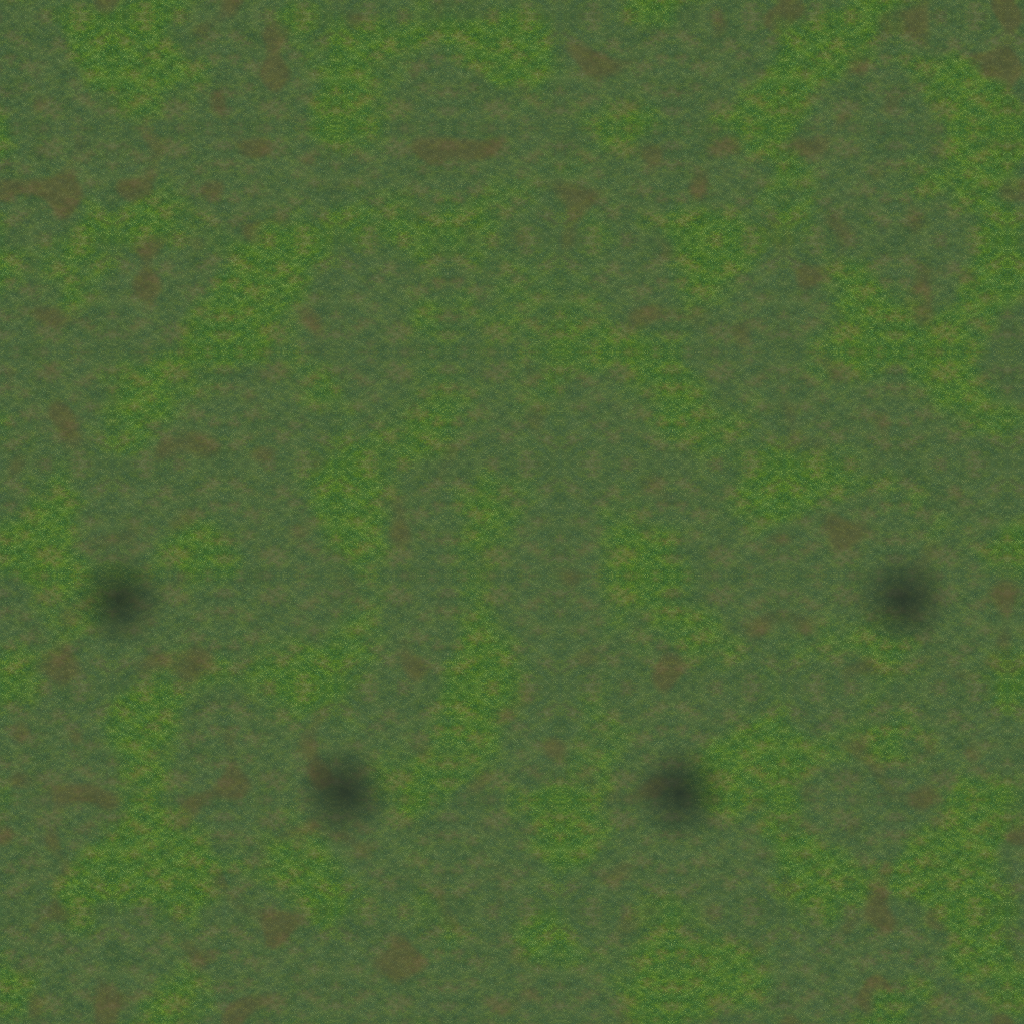
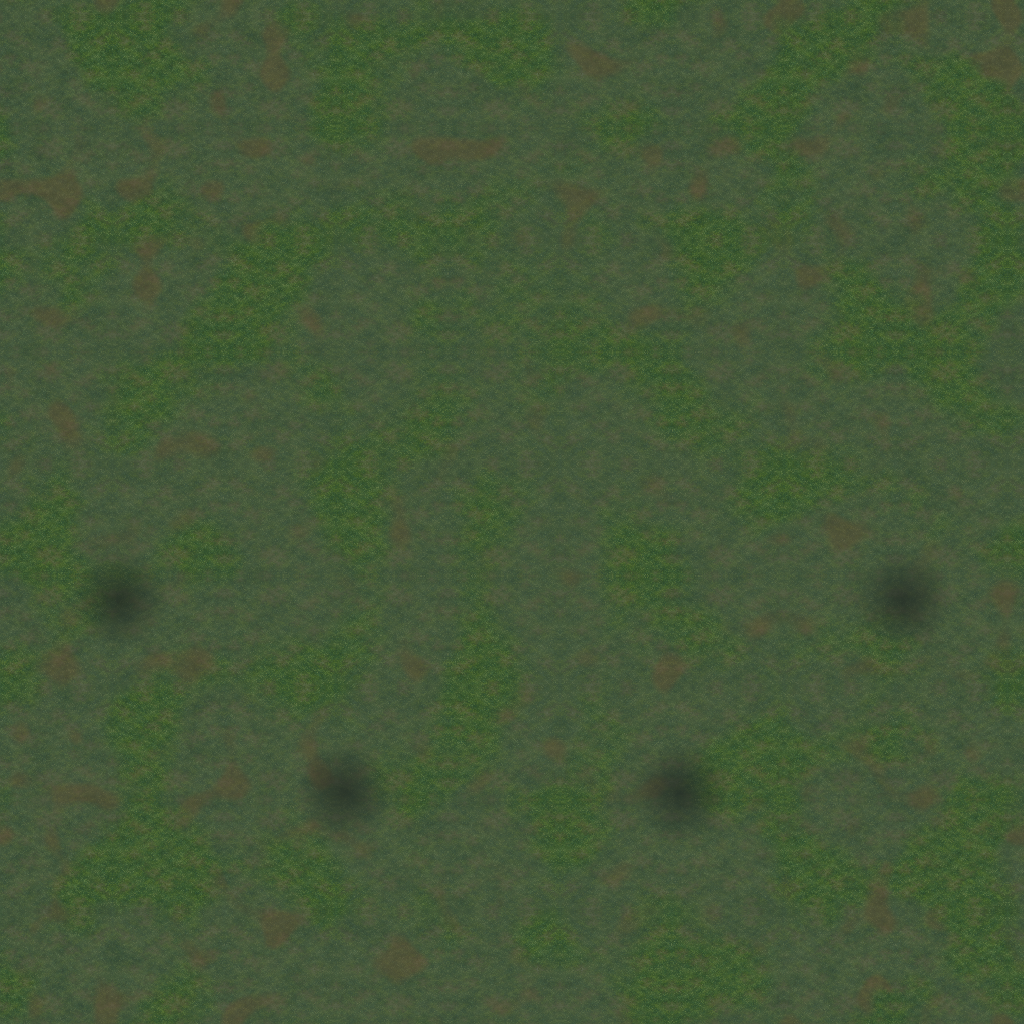
Compose woodland banks and soften Ironfold greens

diff --git a/Assets/Game/Presentation/LivingWorld.cs b/Assets/Game/Presentation/LivingWorld.cs
@@ -87,15 +87,38 @@ namespace FrostMaze
                 if(p.x>width*.5f||!FitsMap(config,p.x,p.z,p.w)||!ClearsFlight(config,p.x,p.z,p.w))continue;
                 Tree(new Vector3(p.x,y,p.z),p.w,p.y,Mathf.RoundToInt(p.x*13+p.z*7),false);Site(p.x,y,p.z,p.w);
             }
-            for(float z=1.2f;z<config.Height-1;z+=1.35f)for(float x=1.2f;x<width*.5f-1;x+=1.35f){
-                float n=Noise(x,z),px=x+(n-.5f)*.65f,pz=z+(Noise(z,x)-.5f)*.6f;
-                float r=.36f+n*.17f;
+            if(!ice)BuildIronfoldBanks(scenery,y);
+            // Broad, separated beds: a rock shoulder anchors each pocket of understory.
+            // The complete group is reserved before generating leaves, including their wind envelope.
+            for(float z=1.5f;z<config.Height-1;z+=2.2f)for(float x=1.5f;x<width*.5f-1;x+=2.2f){
+                float n=Noise(x,z),px=x+(n-.5f)*1.1f,pz=z+(Noise(z,x)-.5f)*1.1f;
+                if(Mathf.PerlinNoise(px*.12f+5,pz*.12f+17)<.46f)continue;
+                float r=.86f+n*.35f;
+                if(!FitsMap(config,px,pz,r)||!Clear(px,pz,r)||!scenery.PlantSpaceFree(px,pz,r))r=.60f+n*.08f;
                 if(!FitsMap(config,px,pz,r)||!Clear(px,pz,r)||!scenery.PlantSpaceFree(px,pz,r))continue;
-                bool edge=!FitsMap(config,px,pz,2.2f);
-                if(Mathf.PerlinNoise(px*.22f+5,pz*.22f+17)<(edge?.32f:.53f))continue;
-                if(n>.65f&&FitsMap(config,px,pz,1.02f)&&scenery.PlantSpaceFree(px,pz,1.14f)&&Clear(px,pz,1.14f)&&ClearsFlight(config,px,pz,1.02f)){
-                    Tree(new Vector3(px,y,pz),.98f,ice?3.1f:2.9f,(int)(px*13+pz*3),false);Site(px,y,pz,.98f);
-                } else {Garden(new Vector3(px,y,pz),r,(int)(px*11+pz*17));Site(px,y,pz,r);}
+                int seed=Mathf.RoundToInt(px*13+pz*17);
+                if(n>.62f&&FitsMap(config,px,pz,1.35f)&&scenery.PlantSpaceFree(px,pz,1.35f)&&Clear(px,pz,1.35f)&&ClearsFlight(config,px,pz,1.35f)){
+                    Tree(new Vector3(px,y,pz),1.30f,ice?3.7f:3.4f,seed,false);Site(px,y,pz,1.30f);
+                } else {Thicket(new Vector3(px,y,pz),r,seed);Site(px,y,pz,r);}
+            }
+        }
+        void BuildIronfoldBanks(MapScenery scenery,float y)
+        {
+            // Shelter the lower bends and frame the approach. Search only near each authored
+            // target so a future mask edit cannot move a tree to an unrelated part of the map.
+            var targets=new[]{new Vector4(16,12,1.22f,3.9f),new Vector4(22,17,1.20f,3.7f),
+                new Vector4(13,3.8f,.66f,2.45f),new Vector4(26,3.8f,.66f,2.45f)};
+            foreach(var target in targets){
+                Vector2 best=default;float score=float.MaxValue;
+                for(float z=target.y-1.5f;z<=target.y+1.5f;z+=.25f)
+                for(float x=target.x-1.5f;x<=target.x+1.5f;x+=.25f){
+                    if(!FitsMap(config,x,z,target.z)||!Clear(x,z,target.z)||!scenery.PlantSpaceFree(x,z,target.z)||!ClearsFlight(config,x,z,target.z))continue;
+                    float distance=(new Vector2(x,z)-new Vector2(target.x,target.y)).sqrMagnitude;
+                    if(distance<score){score=distance;best=new Vector2(x,z);}
+                }
+                if(score==float.MaxValue)continue;
+                Tree(new Vector3(best.x,y,best.y),target.z,target.w,Mathf.RoundToInt(best.x*17+best.y*7),false);
+                Site(best.x,y,best.y,target.z);
             }
         }
         void BuildOutside(WorldBackdrop backdrop)
@@ -112,14 +135,31 @@ namespace FrostMaze
                 if(!backdrop.PlantFits(x,z,r+WindEnvelope)||!Clear(x,z,r))continue;
                 Tree(new Vector3(x,backdrop.SurfaceY(x,z),z),r,ice?5.5f:4.9f,(int)(x*19),!ice);Site(x,0,z,r);
             }
-            // Low gardens follow the paths and foundations, rather than a regular prop grid.
-            for(float z=-35;z<-1;z+=1.25f)for(float x=2;x<width*.5f-1;x+=1.25f){
-                float n=Noise(x,z),px=x+(n-.5f)*.7f,pz=z+(Noise(z,x)-.5f)*.7f;
-                float r=.4f+n*.23f;
-                if(Mathf.PerlinNoise(px*.21f+19,pz*.21f+3)<.43f||!backdrop.PlantFits(px,pz,r+WindEnvelope)||!Clear(px,pz,r))continue;
-                Garden(new Vector3(px,backdrop.SurfaceY(px,pz)+.035f,pz),r,(int)(px*11-pz*17));Site(px,0,pz,r);
+            // Leave open meadow between planted banks; roads and house envelopes stay clear.
+            for(float z=-35;z<-1;z+=2.9f)for(float x=2;x<width*.5f-1;x+=2.9f){
+                float n=Noise(x,z),px=x+(n-.5f)*1.4f,pz=z+(Noise(z,x)-.5f)*1.4f;
+                float r=1.05f+n*.5f;
+                if(Mathf.PerlinNoise(px*.12f+19,pz*.12f+3)<.46f||!backdrop.PlantFits(px,pz,r+WindEnvelope)||!Clear(px,pz,r))continue;
+                Thicket(new Vector3(px,backdrop.SurfaceY(px,pz)+.035f,pz),r,Mathf.RoundToInt(px*11-pz*17));Site(px,0,pz,r);
             }
         }
+        void Thicket(Vector3 root,float radius,int seed)
+        {
+            // Boulders and overlapping low fronds read as one silhouette, with an open side.
+            // Capped heights let a low bed sit beneath a flying lane without hiding its enemies.
+            float turn=seed*.79f;
+            var axis=new Vector3(Mathf.Cos(turn),0,Mathf.Sin(turn));
+            var side=new Vector3(-axis.z,0,axis.x);
+            RockShoulder(root-axis*radius*.25f,Mathf.Min(.62f,radius*.48f),seed);
+            RockShoulder(root-axis*radius*.1f+side*radius*.40f,Mathf.Min(.40f,radius*.30f),seed+3);
+            for(int i=0;i<5;i++){
+                float along=(i%3-1)*radius*.32f,across=(i<3?.27f:-.26f)*radius;
+                var point=root+axis*along+side*across;
+                float r=Mathf.Min(.57f,radius*(i==1?.48f:.36f));
+                Garden(point,r,seed+i*13);
+            }
+        }
+
         void Tree(Vector3 root,float radius,float height,int seed,bool flowering)
         {
             Trees++;var trunk=Tint(.47f,.36f,.23f,0);
@@ -139,7 +179,7 @@ namespace FrostMaze
                     float a=seed+fan*Mathf.PI*2/fans+layer*.8f;
                     var center=root+new Vector3(Mathf.Cos(a)*spread,height*(ice?.28f+layer*.18f:.55f+layer*.15f),Mathf.Sin(a)*spread);
                     float size=radius*(ice?.66f:.70f)*(1-layer/(float)layers*(ice?.45f:.18f));
-                    var tint=ice?Tint(.88f,1.07f,1.09f):Tint(.76f+layer*.13f,.92f+layer*.08f,.78f+layer*.07f);
+                    var tint=ice?Tint(.88f,1.07f,1.09f):Tint(.51f+layer*.075f,.72f+layer*.055f,.69f+layer*.055f);
                     if(flowering)tint=Tint(1.06f+layer*.035f,.82f+layer*.045f,.87f+layer*.035f);
                     LeafCard(target,center,size,a,ice?-.38f:.20f,tint,root,radius);
                 }
@@ -170,16 +210,16 @@ namespace FrostMaze
                 var direction=new Vector3(Mathf.Cos(a),0,Mathf.Sin(a));var side=Vector3.Cross(direction,Vector3.up);
                 float h=radius*(.35f+(i%4)*.16f),wide=radius*.07f;
                 var middle=foot+Vector3.up*h*.64f+direction*radius*.1f;var tip=foot+Vector3.up*h+direction*radius*.3f;
-                var c=ice?Tint(.37f,.55f,.48f,.4f):Tint(.35f+(i%3)*.08f,.51f+(i%3)*.09f,.18f,.4f);
+                var c=ice?Tint(.37f,.55f,.48f,.4f):Tint(.28f+(i%3)*.035f,.42f+(i%3)*.045f,.29f,.4f);
                 grass.Quad(foot-side*wide,middle-side*wide*.7f,middle+side*wide*.7f,foot+side*wide,c,Vector3.up);
                 c.a=1;c*=1.12f;c.a=1;grass.Quad(middle-side*wide*.7f,tip,tip,middle+side*wide*.7f,c,Vector3.up);
             }
             if(seed%4!=0){
-                var c=ice?Tint(.68f,.85f,.82f):Tint(.85f,.98f,.75f);
+                var c=ice?Tint(.68f,.85f,.82f):Tint(.58f,.77f,.73f);
                 LeafCard(canopy,root+Vector3.up*radius*.50f,radius*.92f,turn,.5f,c,root,radius);
                 LeafCard(canopy,root+Vector3.up*radius*.60f,radius*.82f,turn+1.5f,.5f,c,root,radius);
             }
-            if(seed%5==0)for(int f=0;f<3;f++){
+            if(seed%11==0)for(int f=0;f<3;f++){
                 float a=turn+f*2.1f;var p=root+new Vector3(Mathf.Cos(a)*radius*.42f,radius*.62f,Mathf.Sin(a)*radius*.42f);
                 Tube(grass,p-Vector3.up*radius*.6f,p,.011f,.008f,Tint(.28f,.47f,.25f,.6f),4);
                 for(int petal=0;petal<5;petal++){

diff --git a/Assets/Game/Presentation/MapScenery.Surface.cs b/Assets/Game/Presentation/MapScenery.Surface.cs
@@ -30,7 +30,7 @@ namespace FrostMaze
         internal static Color MeadowColor(float x,float z)
         {
             if(meadowPaint==null)meadowPaint=Resources.Load<Texture2D>("World/HearthMeadow");
-            return meadowPaint!=null?meadowPaint.GetPixelBilinear(Mathf.PingPong(x/7,1),Mathf.PingPong(z/7,1))*new Color(.78f,.96f,.97f):new Color(.35f,.44f,.22f);
+            return meadowPaint!=null?meadowPaint.GetPixelBilinear(Mathf.PingPong(x/7,1),Mathf.PingPong(z/7,1))*new Color(.64f,.80f,.91f):new Color(.35f,.44f,.22f);
         }
         internal static Color RaisedSurfaceColor(float wx,float wz,bool ice)
         {
@@ -56,7 +56,7 @@ namespace FrostMaze
             }
             var rock=Color.Lerp(new Color(.24f,.27f,.27f),new Color(.40f,.40f,.35f),breakup);
             rock=Color.Lerp(rock,new Color(.15f,.19f,.19f),seam*.12f);
-            var grass=Color.Lerp(MeadowColor(wx,wz)*.88f,new Color(.25f,.39f,.26f),.22f);
+            var grass=Color.Lerp(MeadowColor(wx,wz)*.88f,new Color(.23f,.32f,.26f),.32f);
             float fibers=SnowNoise(wx,wz,5,31,61);
             grass*=.94f+fibers*.12f;
             var earth=Color.Lerp(rock,grass,.62f+exposed*.34f);

diff --git a/Assets/Game/Editor/WorldSurfaceBaker.cs b/Assets/Game/Editor/WorldSurfaceBaker.cs
@@ -44,7 +44,7 @@ namespace FrostMaze.Editor
             if(material==null){material=new Material(Resources.Load<Material>("PrototypeMaterial"));AssetDatabase.CreateAsset(material,path);}
             material.color=Color.white;material.EnableKeyword("_DETAIL_SCALED");
             material.SetTexture("_DetailAlbedoMap",Resources.Load<Texture2D>("World/HearthMeadow"));
-            material.SetFloat("_DetailAlbedoMapScale",.48f);material.SetFloat("_DetailNormalMapScale",0);
+            material.SetFloat("_DetailAlbedoMapScale",.20f);material.SetFloat("_DetailNormalMapScale",0);
             material.SetFloat("_Smoothness",.10f);EditorUtility.SetDirty(material);AssetDatabase.SaveAssets();
         }
         static Texture2D Save(string name,Texture2D texture,bool repeat) {

diff --git a/Assets/Game/Presentation/WorldSurfaceSet.cs b/Assets/Game/Presentation/WorldSurfaceSet.cs
@@ -7,7 +7,7 @@ namespace FrostMaze
     {
         public string Fingerprint,EditorInputs;
         public Texture2D Ground,Cap,Wall,Water,Exterior;
-        public const string PaintRevision="living-hearth-1";
+        public const string PaintRevision="woodland-banks-2";
         public static string Key(Scenario c) {
             var text=PaintRevision+"|"+c.Theme+"|"+c.Width+"|"+c.Height+"|"+c.LayoutCellSize.ToString(System.Globalization.CultureInfo.InvariantCulture)+"|"+c.WalkableSymbols+"|"+string.Join("\n",c.LayoutRows);
             foreach(var lane in c.Lanes)text+="|"+JsonUtility.ToJson(lane);

diff --git a/Docs/OVERNIGHT-NEXT.md b/Docs/OVERNIGHT-NEXT.md
@@ -1,3 +1,19 @@
+## 2026-10-10 — woodland banks and quieter Ironfold greens
+
+[Change note](WOODLAND-COMPOSITION.md), [verification and screenshots](Verification/Woodland-Composition/README.md). Ironfold foliage and meadow paint are less chartreuse; exterior detail has lower contrast. Tiny scattered shrubs become separated rock/frond groups, with compact versions for narrow shelves. Authored tree targets frame Ironfold's lower bends and Last Stand approach. Rimewatch shares the grouped planting while retaining its snow/spruce palette. All source masks, gameplay rules, ownership, networking and audio are unchanged. This does not remodel the halls or legacy forge landmarks.
+
+The first two-case Unity run exposed too little Ironfold undergrowth after large groups were rejected (8 garden elements, old test required >20). Compact groups corrected this without changing tests or clearance margins. The same two cases pass after the final authored-tree pass: complete foliage triangles/wind stay on solid cells, tall meshes avoid flight paths, roofs/roads remain clear, mirroring is exact, paid construction and wallets work, baked surfaces remain valid and materials clean up on map switches. No full-suite claim.
+
+Final packaged Linux world check passes for both maps: 8 actual paid towers / 80 gold per map, unchanged masks, mirrored refuge geometry and short live play with synthetic ground/flying targets. This is not a fresh campaign/balance result. Inspected Last Stand, detail, paid-defense and overview screenshots. Packaged title/settings/credits/resize/map-change/solo check passes at 960×600 and 1440×900; small title and HUD inspected. Linux and Windows builds succeed; Windows remains cross-build only. No native Windows, hardware FPS, new separate-network match or release claim.
+
+Installed candidates are Builds/Linux-World and Builds/Windows-World, with preceding packages preserved as *-World-53772ae. Executable/runtime/notices hashes match the isolated builds; Scott Buckley notices remain included. All owned processes closed, wrappers exit 0, isolated project restored to Linux. Scripts/logs begin work/woodland-. Use /home/adam/Documents/Codex/2026-10-06/cre/work/howl-logo-build, private Xvfb :98 and private XDG preferences. Preserve user editor/player and run one Unity/player/display job at a time. No automation changes, retain the 2026-10-10 06:00 UTC cutoff. Mobile remains paused; Unity MCP is not installed.
+
+### Next useful work
+
+1. The calmer ground and foliage expose the remaining simple landmark forms: Ironfold's plain furnace boxes/tall flat flues, untextured legacy rock/tree bases, and Rimewatch's simple wayshrines. Give one landmark family believable stone/metal/timber construction and a stronger hearth silhouette within its current reserved footprint; verify normal gameplay zoom, paid defenses and air clearance before spreading it. The paired refuge halls are more developed but still have simple flat gables. Keep the open exit, exact mirrored geometry and wall-tight building.
+2. Continue within-faction role recognition beyond Horizon, especially Blast's hammer/boiler/air unit, distinctive champions and order-specific builder bodies. Preserve order pigments/projectiles and the actual-model portrait/preview pipeline. Inspect both small portraits and in-world views.
+3. Mixed-defense audio and human first-play review, actual GPU profiling, native Windows and a full separate-network match remain useful release gates. No broad release-readiness claim from presentation-only automation. Existing questions/limits remain in project docs.
+
 ## 2026-10-10 — purposeful order colors and seven Horizon instruments
 
 [Change note](ORDER-WEAPONS.md), [verification and screenshots](Verification/Order-Weapons/README.md). Horizon now has a field scope, open sun mirror, drum crossbow, shielded watchbow, raised twin harpoons, geared auger and double-ballista champion with a standard. Timber tripods and a four-legged champion replace the common bow under unrelated devices. All twelve orders now have deliberate painted pigments and core lights, shared with projectile color families; ownership rings and per-weapon shapes, sizes, flight timing and sounds remain separate. Live combat inspection caught and corrected the old pink Horizon shots.

diff --git a/README.md b/README.md
@@ -6,7 +6,7 @@ Built with Unity 6.3 LTS, C# and URP for Windows and Ubuntu Linux. Game code, pr
 
 Latest presentation: [Horizon field instruments and deliberate order/shot colors](Docs/ORDER-WEAPONS.md), following [readable portraits and full-model construction previews](Docs/PLACEMENT-PRESENTATION.md) and the [hearth interface and twelve faction families](Docs/HEARTH-INTERFACE-AND-ORDERS.md).
 
-Latest environment: [living refuge, planted lanes and painted foliage across both maps](Docs/LIVING-WORLD.md).
+Latest environment: [quieter greens, grouped woodland banks and a tree-framed Ironfold approach](Docs/WOODLAND-COMPOSITION.md), following the [living refuge and painted foliage](Docs/LIVING-WORLD.md).
 
 Latest fixes: [sheltered scenery, faster map switching, team chat and match results](Docs/SHELTER-CHAT-RESULTS.md). All players need the current build: chat uses protocol `howl-direct-5`.
 
@@ -14,7 +14,7 @@ Latest fixes: [sheltered scenery, faster map switching, team chat and match resu
 
 Both maps now use [mirrored terrain and scenery with clear base approaches](Docs/MIRRORED-MAPS.md).
 
-Latest local Linux player: `Builds/Linux-World/HowlForMaul` (cloud-linked Relay, offline and LAN available). `Linux-World-c078e9b` is preserved as the preceding build. The [stone-and-brass UI](Docs/BRASS-HUD.md) unifies menu buttons and the HUD, with Ironfold first/default and its warmer title background. The [dedicated title screen](Docs/TITLE-SCREEN.md) adds a living map background, Play, Settings, Credits and Quit. Play opens map selection. Linux build and targeted menu/camera checks pass. The matching Windows candidate is `Builds/Windows-World/HowlForMaul.exe`; Windows runtime remains untested. Older Gallery builds use an older protocol: do not mix them with current builds. Publication is held pending [separate-network and Windows playtesting](Docs/RELAY-NEXT.md). The [live Relay checkpoint](Docs/RELAY-LIVE.md) records cloud connectivity and the compact retry dialog. The [Relay implementation](Docs/RELAY-IMPLEMENTATION.md) adds private join codes; the verified direct path remains available under Advanced LAN/IP.
+Latest local Linux player: `Builds/Linux-World/HowlForMaul` (cloud-linked Relay, offline and LAN available). `Linux-World-53772ae` is preserved as the preceding build. The [stone-and-brass UI](Docs/BRASS-HUD.md) unifies menu buttons and the HUD, with Ironfold first/default and its warmer title background. The [dedicated title screen](Docs/TITLE-SCREEN.md) adds a living map background, Play, Settings, Credits and Quit. Play opens map selection. Linux build and targeted menu/camera checks pass. The matching Windows candidate is `Builds/Windows-World/HowlForMaul.exe`; Windows runtime remains untested. Older Gallery builds use an older protocol: do not mix them with current builds. Publication is held pending [separate-network and Windows playtesting](Docs/RELAY-NEXT.md). The [live Relay checkpoint](Docs/RELAY-LIVE.md) records cloud connectivity and the compact retry dialog. The [Relay implementation](Docs/RELAY-IMPLEMENTATION.md) adds private join codes; the verified direct path remains available under Advanced LAN/IP.
 
 The preceding [world cohesion](Docs/WORLD-COHESION.md), [layered weapon sounds](Docs/WEAPON-MATERIAL-AUDIO.md), [faction model polish](Docs/ACTOR-POLISH.md), [terrain materials](Docs/TERRAIN-MATERIALS.md) and [living fire](Docs/LIVING-FIRE.md) are included. Economy details: [gold and milestone wood](Docs/MAUL-ECONOMY-IMPLEMENTED.md).
 

diff --git a/Docs/WOODLAND-COMPOSITION.md b/Docs/WOODLAND-COMPOSITION.md
@@ -1,0 +1,17 @@
+# Woodland banks and quieter greens
+
+2026-10-10. A bounded landscape iteration on the living-world pass.
+
+Ironfold's painted foliage now uses shaded green pigments instead of bright yellow-green accents. Its meadow pigment and exterior close-view detail are quieter too, giving the amber hearths, road and paid defenses more room to stand out. The original source artwork remains unchanged; the new surface color is baked with the updated paint revision.
+
+Isolated little shrubs are replaced by grouped planting: two weathered stones and five overlapping patches of low fronds. Wider shelves get larger groups; narrow shelves get compact versions. A broad planting field leaves open spaces between groups. New eligible tree sites use larger crowns. Four authored targets per half of Ironfold frame the lower bends and base approach: each searches only within 1.5 units for a valid blocked-terrain site, and is omitted if no safe site exists. The same grouping reaches the refuge grounds and Rimewatch, which retains its separate snowy spruce palette. Flowers are rarer accents.
+
+Each entire planting group is reserved before its meshes are generated. The source masks, lanes, economy, tower rules and online flow are unchanged. Wind margins, roof/road exclusions and flying corridors still govern placement, and both halves mirror. No scenery colliders are added. The low frond and stone heights are capped so groups beneath flight paths cannot hide enemies.
+
+This pass does not remodel the refuge halls or legacy forge landmarks. Their remaining simple forms, tower/builder artistry and human first-play/audio review remain priorities; these changes do not establish commercial-release readiness.
+
+## Verification
+
+The first geometry run passed the exterior/baked-map check but failed the existing minimum planting-content assertion: Ironfold had only eight garden elements after oversized groups were rejected by narrow shelves. Compact group placement fixed the content loss. The same unchanged tests then passed 2/2. A packaged review found the base too bare; after the authored tree targets were added, both tests passed again, including full triangle/wind/build-cell checks, tall-flight clearance, roof exclusions, mirrored vertices, actual paid construction, exact wallets, unchanged masks, baked-paint validity and material cleanup across map switches.
+
+Packaged render evidence and build results are recorded in [the verification folder](Verification/Woodland-Composition/README.md).

diff --git a/Docs/Verification/Woodland-Composition/README.md b/Docs/Verification/Woodland-Composition/README.md
@@ -1,0 +1,16 @@
+# Woodland composition verification
+
+2026-10-10 · Unity 6000.3.25f1 · Linux x64 player · isolated Xvfb/OpenGL llvmpipe.
+
+- Final existing geometry/baked-map tests: **2 passed, 0 failed**. [XML](LandscapeSafety.xml). Full windy triangles, solid cells, flying paths, house envelopes, mirrored vertices, paid construction and map-switch cleanup are checked.
+- Initial run: **1 passed, 1 failed** because the first large-group layout removed too much Ironfold undergrowth. [Initial failure](InitialDensityFailure.xml). Compact groups fixed it; the tests and safety margins were not weakened. Final tree-placement changes also passed both tests.
+- [Packaged both-map check](PackagedWorld.txt): eight paid towers and 80 gold spent per map, unchanged masks and mirrored refuge geometry. These are short presentation/paid-order checks with three synthetic combat targets; they are not twenty-wave balance campaigns.
+- [Packaged menus](PackagedMenu.txt): title, settings, credits, resize, map selection, solo entry and frozen menu simulation pass. Screenshots inspected at 960×600 and 1440×900.
+- Linux and Windows builds succeed. Windows is a cross-build, not a native runtime test. No hardware FPS, new complete campaign, separate-network match or commercial release claim.
+
+The structured [verification record](Verification.json) records sources, package hashes and local logs. Earlier full simulation/Relay evidence remains historical, not re-certified by this presentation pass. Scott Buckley notices are retained in both candidates.
+
+![Ironfold with paid defenses](Ironfold-Last-Stand.png)
+![Ironfold refuge detail](Ironfold-Refuge-Detail.png)
+![Rimewatch Last Stand](Rimewatch-Last-Stand.png)
+![Small title with visible Scott Buckley credit](Title-Small.png)
